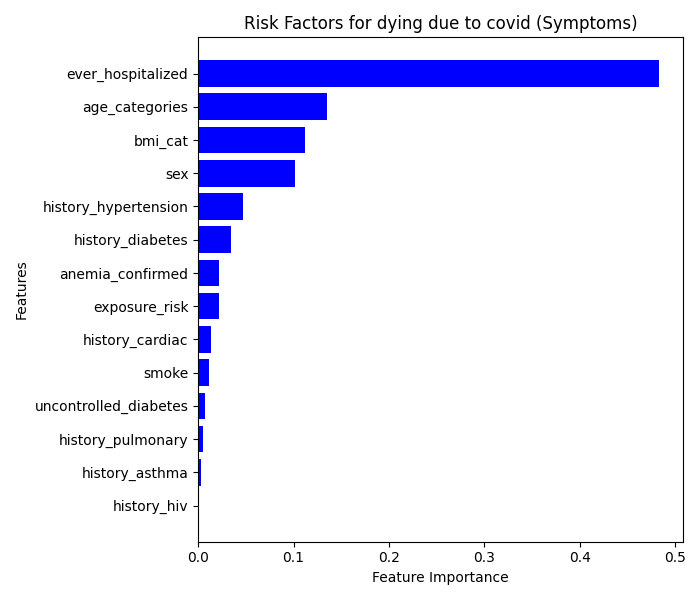
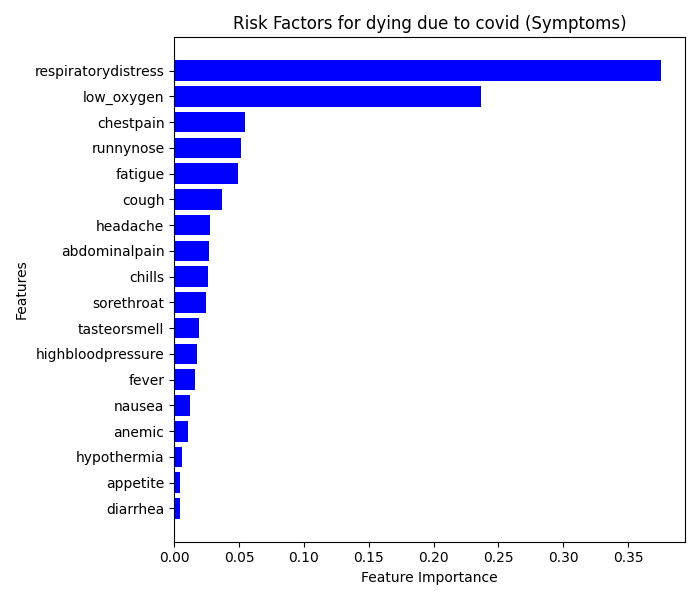
Add files via upload

diff --git a/feature_importances_plot.py b/feature_importances_plot.py
@@ -18,7 +18,7 @@ def subplot_feature_importances(data1, title1, saveplot):
 
 ## Load data for plotting
 data_importance1 = pd.read_csv('feature_importances.csv')
-data_importance2 = pd.read_csv('sy_feature_importances.csv')
+data_importance2 = pd.read_csv('feature_importances2.csv')
 data_importance3 = pd.read_csv('feature_importances_cf_hospitalized.csv')
 data_importance4 = pd.read_csv('feature_importances_cf_icu.csv')
 data_importance5 = pd.read_csv('feature_importances_cf_dead.csv')
